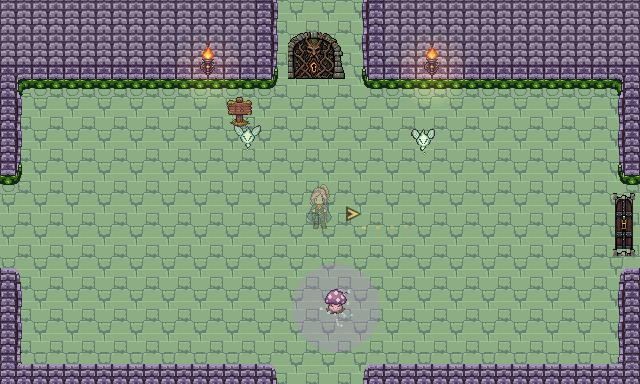
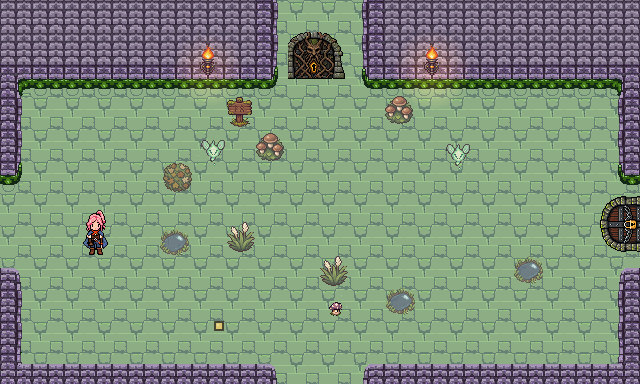
Boss halls read as arenas: a worn oval ringed in the boss's colour with the dungeon's litter pushed to its edge; regression 34/34

diff --git a/src/game/scenes/DungeonScene.ts b/src/game/scenes/DungeonScene.ts
@@ -645,6 +645,7 @@ export class DungeonScene extends Phaser.Scene implements PlayerHost {
       return seed / 4294967296;
     };
     const used = new Set(room.placements.map((p) => `${p.tx - room.gx * ROOM_W},${p.ty - room.gy * ROOM_H}`));
+    if (room.purpose === "boss") return this.dressBossHall(room, set, rnd, used);
     const taken: { x: number; y: number }[] = [];
     for (let ty = 3; ty < ROOM_H - 1; ty++) {
       for (let tx = 1; tx < ROOM_W - 1; tx++) {
@@ -661,6 +662,43 @@ export class DungeonScene extends Phaser.Scene implements PlayerHost {
         const img = this.add.image(room.x + tx * TILE + (rnd() * 6 - 3), room.y + ty * TILE + (rnd() * 6 - 3), tex).setOrigin(0).setDepth(-998).setAlpha(flat ? 0.82 : 0.95).setFlipX(rnd() < 0.5);
         this.roomStuff.push(img);
       }
+    }
+  }
+
+  /**
+   * The boss hall is an arena, not another room: the middle is worn bare (a darker oval where the
+   * fight happens, ringed in the boss's colour), and the dungeon's litter is pushed to the edge of
+   * it - leaves and caps around the Treant, bones and candles around the Knight, rubble around the Golem.
+   */
+  private dressBossHall(room: Room, set: string[], rnd: () => number, used: Set<string>) {
+    const bossKind = room.placements.find((p) => BOSSES[p.kind])?.kind;
+    const ring = bossKind ? BOSSES[bossKind].flash : 0xffffff;
+    const cx = room.x + ROOM_W * TILE * 0.5, cy = room.y + 7 * TILE;
+    const rx = 7.2 * TILE, ry = 3.4 * TILE;
+    const g = this.add.graphics().setDepth(-999);
+    g.fillStyle(0x000000, 0.1).fillEllipse(cx, cy, rx * 2, ry * 2);
+    g.fillStyle(0x000000, 0.06).fillEllipse(cx, cy, rx * 1.5, ry * 1.5);
+    g.lineStyle(2, ring, 0.14).strokeEllipse(cx, cy, rx * 2 + 6, ry * 2 + 6);
+    this.roomStuff.push(g);
+    // the litter: around the oval's edge, spaced, never on the south lane or a used tile
+    const taken: { x: number; y: number }[] = [];
+    const count = 16;
+    for (let i = 0; i < count; i++) {
+      const a = ((i + rnd() * 0.6) / count) * Math.PI * 2;
+      const r = 1.08 + rnd() * 0.22;
+      const px = cx + Math.cos(a) * rx * r, py = cy + Math.sin(a) * ry * r;
+      const tx = Math.floor((px - room.x) / TILE), ty = Math.floor((py - room.y) / TILE);
+      if (tx < 1 || tx > ROOM_W - 2 || ty < 3 || ty > ROOM_H - 2) continue;
+      if ((tx === 9 || tx === 10) && ty >= ROOM_H - 3) continue;
+      // not on, or right beside, anything placed (a lava pool, an anchor post) - the sprites straddle tiles
+      if ([[0, 0], [1, 0], [-1, 0], [0, 1], [0, -1]].some(([ox, oy]) => used.has(`${tx + ox},${ty + oy}`))) continue;
+      if (this.solidTiles.has(`${tx + room.gx * ROOM_W},${ty + room.gy * ROOM_H}`)) continue;
+      if (taken.some((t) => t.x === tx && t.y === ty)) continue;
+      taken.push({ x: tx, y: ty });
+      const tex = set[Math.floor(rnd() * set.length)];
+      const flat = tex.includes("leaves") || tex.includes("puddle") || tex.includes("moss");
+      const img = this.add.image(px - 16, py - 16, tex).setOrigin(0).setDepth(-998).setAlpha(flat ? 0.82 : 0.95).setFlipX(rnd() < 0.5);
+      this.roomStuff.push(img);
     }
   }
 

diff --git a/docs/NIGHT_LOG.md b/docs/NIGHT_LOG.md
@@ -46,4 +46,5 @@ Backlog complete (1–10). Waiting on the user for the next direction: Sunken Cr
 | 04:xx | Cycle 10 — Cinder Depths sound pass | **Brainstorm**: cinder sounds (the third dungeon was borrowing whoosh/crystal/spore/bomb) / vent art / tree border / boss-hall dressing / regression pass. **Plan**: nine sounds in `audio.ts` with a new `crackle()` fire helper — rod shot, brazier ignite, vent breath, thorns burn, lava crusting (replaces the water gurgle in the cinder), magma splash, golem stomp, overheat sizzle, cinderling heat — wired at each event. **Reality check**: vents repeat every 3 s, so the hiss stays around 0.1 peak and only within 160 px; `heat` only fires when the cinderling wasn't already hot. **Action**: shipped; levels checked against the existing table (preview `docs/audio-review/sfx-cinder.wav`), regression 34/34 with the sound code exercised (1.9k oscillators over the run, no errors). **Perfection**: the stomp was quieter than the bomb it replaced — raised; audio skill gained the fire helper, the cinder set and the reference peaks. | 0 |
 | 05:xx | Cycle 11 — lava pools light the room | **Brainstorm**: a cinder contact sheet first (`docs/sprite-review/qa-cinder.png`) — it showed the lava as flat orange sheets cut hard against the floor; other candidates: vent art, tree border, boss-hall dressing. **Plan**: banks and light with no new art — a 4 px scorched bank on the floor around every pool (inner corners handled), a 1 px ember lip just inside the edge, and additive halos under the pool's edges drawn *beneath* the lava sprite so only the stone catches the glow (the pool keeps its own colour), breathing out of step. When a plate crusts the pool, the lip and glow fade and the dark bank stays around the slag. **Reality check**: halos over the lava blew it out — hence under it; the crypt's pale water rim is unchanged (cistern: 16 rims, 0 glow). **Action**: shipped; review `docs/sprite-review/lava-banks.png` (Brazier Vault lit, Thorn Gate crusted). **Perfection**: first pass was too faint (0.16 α at tile centres) — moved to the edges at 0.55–0.85. Playtest note for the skill: `__snap` only resolves after a render, so on a hidden pane call it, then `__run(120)`, then await it. | 0 |
 | 05:xx | Cycle 12 — water gets the same banks | **Brainstorm**: crypt water (the cistern read as a floor stain next to the new lava) / vent glow / boss-hall dressing / Whisperwood re-check. **Plan**: the lava code now serves both liquids — a 4 px wet-stone bank on the floor around every pool, a pale foam lip just inside that laps slowly (α 0.5↔0.2, 1.6 s), no glow; the lip fades with the water when a plate drains it and the dark basin edge stays. **Reality check**: the old 2 px pale rim was doing nothing at 1x; the drain path had to kill the lap tween before fading (checked: rims → 0, pool gone). **Action**: shipped; review `docs/sprite-review/water-banks.png`. **Perfection**: nothing further — same helper, one branch per liquid. | 0 |
+| 06:xx | Cycle 13 — boss halls are arenas | **Brainstorm**: a fresh Whisperwood sheet (`docs/sprite-review/qa-whisperwood-2.png`) showed the boss hall looks like any other room; other candidates: vent glow, tree border, a regression pass. **Plan**: `dressBossHall` replaces the random scatter in `purpose: "boss"` rooms — a worn oval where the fight happens (two darker ellipses), a thin ring in the boss's own colour (the bar's flash tint), and the dungeon's litter pushed to the oval's edge (16 spots with seeded jitter, never on the south lane, never on or beside a placed thing). **Reality check**: cinder litter first landed on a lava bank — spots now skip tiles adjacent to placements. **Action**: shipped; review `docs/sprite-review/boss-halls.png` (Treant / Knight / Golem halls). **Perfection**: regression re-run after the scene change: 34/34. | 0 |
 

diff --git a/.claude/skills/emberfall-dungeon/SKILL.md b/.claude/skills/emberfall-dungeon/SKILL.md
@@ -85,3 +85,12 @@ same in `chests`/`solveReward`/`clearReward`.
 Seed a save in the new place, `__start(room)`, walk every doorway, solve every puzzle, fight every room,
 hook every anchor, kill the boss, collect the shard → complete screen text; then walk out to town and back in
 through the gate. `__hudOverlaps()` during the intro and with the bar up. Commit, push, log.
+
+## Room dressing (no new art)
+- `scatterDecor(room)` litters empty floor from `meta.decor` by a room-seeded RNG; boss halls (`purpose: "boss"`)
+  go through `dressBossHall` instead: worn oval + ring in the boss's `flash` colour + litter at the oval's edge.
+- Pools: `drawWaterRims` gives every water/lava tile a 4 px bank on the floor and a 1 px lip inside; lava adds
+  additive halos *under* the sprite (depth -999, floor is -1000, lava -998) so only the stone glows. Draw order
+  matters: anything that must show on the floor but not over a pool sits between -1000 and -998.
+- Before choosing a polish target, take a room contact sheet (goto each room, `__snap`, tile at 0.5x) — the
+  sheet is what surfaced the flat lava, the stained-floor water and the anonymous boss halls.
